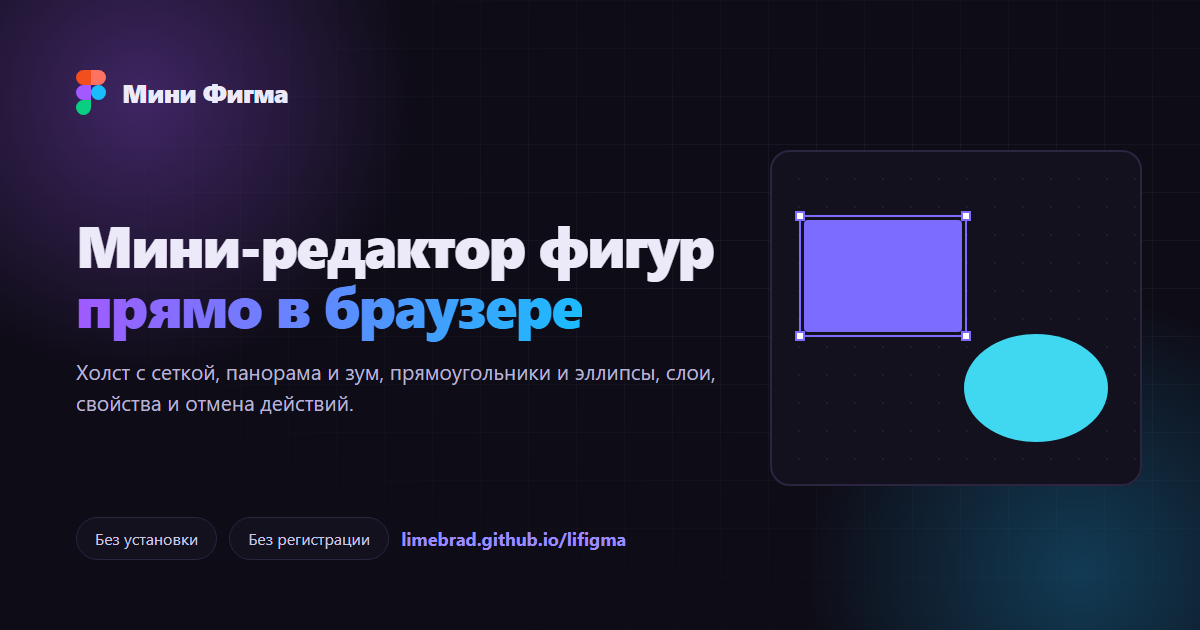
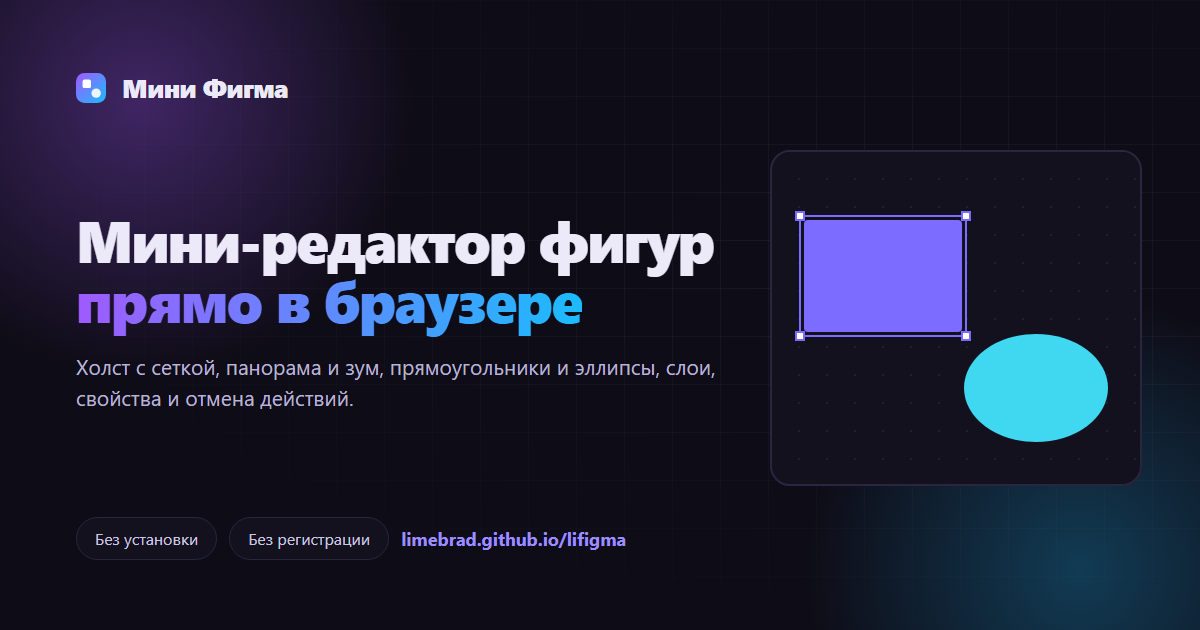
Убран официальный логотип Figma — собственный знак проекта
- Новый знак «Мини Фигма»: градиентный квадрат с прямоугольником и кругом
  (src/components/ui/Logo.tsx вместо FigmaLogo.tsx).
- Знак обновлён в шапке, футере, макете окна редактора и первом шаге.
- favicon.svg и og-image.png перерисованы под новый знак.

Changed region(s): [[0.0617, 0.3317, 0.5858, 0.5429], [0.0617, 0.573, 0.6167, 0.6635], [0.0617, 0.0905, 0.2467, 0.181]]

diff --git a/src/components/ui/Logo.tsx b/src/components/ui/Logo.tsx
@@ -1,0 +1,51 @@
+/**
+ * src/components/ui/Logo.tsx — собственный знак проекта «Мини Фигма» и
+ * подпись рядом с ним. Знак — это градиентный квадрат с двумя фигурами,
+ * которые редактор умеет рисовать (прямоугольник и круг). Официальный
+ * логотип Figma здесь не используется.
+ */
+import { useId } from 'react'
+
+type LogoMarkProps = {
+  className?: string
+}
+
+export function LogoMark({ className = 'h-8 w-auto' }: LogoMarkProps) {
+  // Уникальный id градиента: знак встречается на странице несколько раз.
+  const gradientId = useId()
+
+  return (
+    <svg
+      viewBox="0 0 32 32"
+      className={className}
+      role="img"
+      aria-label="Мини Фигма"
+      focusable="false"
+    >
+      <defs>
+        <linearGradient id={gradientId} x1="0" y1="0" x2="32" y2="32" gradientUnits="userSpaceOnUse">
+          <stop stopColor="#a259ff" />
+          <stop offset="1" stopColor="#1abcfe" />
+        </linearGradient>
+      </defs>
+      <rect width="32" height="32" rx="9" fill={`url(#${gradientId})`} />
+      <rect x="7" y="7" width="9" height="9" rx="2" fill="#ffffff" />
+      <circle cx="21.5" cy="21.5" r="5" fill="#ffffff" fillOpacity="0.9" />
+    </svg>
+  )
+}
+
+type LogoProps = {
+  className?: string
+}
+
+export function Logo({ className = '' }: LogoProps) {
+  return (
+    <span className={`inline-flex items-center gap-2.5 ${className}`}>
+      <LogoMark className="h-7 w-auto" />
+      <span className="text-[17px] font-extrabold tracking-tight text-ink">
+        Мини Фигма
+      </span>
+    </span>
+  )
+}

diff --git a/src/components/visuals/EditorWindow.tsx b/src/components/visuals/EditorWindow.tsx
@@ -59,6 +59,10 @@ export function EditorWindow({ className = '' }: { className?: string }) {
         <pattern id="editor-grid" width="32" height="32" patternUnits="userSpaceOnUse">
           <circle cx="1" cy="1" r="1" fill="#241f36" />
         </pattern>
+        <linearGradient id="editor-logo-grad" x1="22" y1="12" x2="46" y2="36" gradientUnits="userSpaceOnUse">
+          <stop stopColor="#a259ff" />
+          <stop offset="1" stopColor="#1abcfe" />
+        </linearGradient>
       </defs>
 
       <g clipPath="url(#editor-window)">
@@ -68,13 +72,9 @@ export function EditorWindow({ className = '' }: { className?: string }) {
         <rect x="0" y="0" width="1040" height="48" fill={PANEL} />
         <line x1="0" y1="48" x2="1040" y2="48" stroke={BORDER} strokeWidth="1.5" />
 
-        <g transform="translate(22 10) scale(0.5)">
-          <path fill="#1abcfe" d="M19 28.5a9.5 9.5 0 1 1 19 0 9.5 9.5 0 0 1-19 0Z" />
-          <path fill="#0acf83" d="M0 47.5A9.5 9.5 0 0 1 9.5 38H19v9.5a9.5 9.5 0 1 1-19 0Z" />
-          <path fill="#ff7262" d="M19 0v19h9.5a9.5 9.5 0 1 0 0-19H19Z" />
-          <path fill="#f24e1e" d="M0 9.5A9.5 9.5 0 0 0 9.5 19H19V0H9.5A9.5 9.5 0 0 0 0 9.5Z" />
-          <path fill="#a259ff" d="M0 28.5A9.5 9.5 0 0 1 9.5 19H19v19H9.5A9.5 9.5 0 0 1 0 28.5Z" />
-        </g>
+        <rect x="22" y="12" width="24" height="24" rx="7" fill="url(#editor-logo-grad)" />
+        <rect x="27" y="17" width="6.5" height="6.5" rx="1.6" fill="#ffffff" />
+        <circle cx="38" cy="28" r="3.6" fill="#ffffff" fillOpacity="0.9" />
         <text x="52" y="31" fontSize="15" fontWeight="700" fill={TEXT}>
           Мини Фигма
         </text>

diff --git a/src/components/visuals/StepVisual.tsx b/src/components/visuals/StepVisual.tsx
@@ -19,13 +19,15 @@ function OpenEditor() {
       <rect x="70" y="7" width="120" height="12" rx="6" fill="#efefef" />
 
       {/* Знак проекта */}
-      <g transform="translate(116 44) scale(0.32)">
-        <path fill="#1abcfe" d="M19 28.5a9.5 9.5 0 1 1 19 0 9.5 9.5 0 0 1-19 0Z" />
-        <path fill="#0acf83" d="M0 47.5A9.5 9.5 0 0 1 9.5 38H19v9.5a9.5 9.5 0 1 1-19 0Z" />
-        <path fill="#ff7262" d="M19 0v19h9.5a9.5 9.5 0 1 0 0-19H19Z" />
-        <path fill="#f24e1e" d="M0 9.5A9.5 9.5 0 0 0 9.5 19H19V0H9.5A9.5 9.5 0 0 0 0 9.5Z" />
-        <path fill="#a259ff" d="M0 28.5A9.5 9.5 0 0 1 9.5 19H19v19H9.5A9.5 9.5 0 0 1 0 28.5Z" />
-      </g>
+      <defs>
+        <linearGradient id="step-logo-grad" x1="116" y1="40" x2="144" y2="68" gradientUnits="userSpaceOnUse">
+          <stop stopColor="#a259ff" />
+          <stop offset="1" stopColor="#1abcfe" />
+        </linearGradient>
+      </defs>
+      <rect x="116" y="40" width="28" height="28" rx="8" fill="url(#step-logo-grad)" />
+      <rect x="122" y="46" width="8" height="8" rx="2" fill="#ffffff" />
+      <circle cx="137.5" cy="61.5" r="4.2" fill="#ffffff" fillOpacity="0.9" />
 
       {/* Кнопка запуска */}
       <rect x="48" y="90" width="164" height="42" rx="12" fill="#0d0d0d" />

diff --git a/src/editor/EditorApp.tsx b/src/editor/EditorApp.tsx
@@ -9,7 +9,7 @@ import { Canvas } from '../components/Canvas'
 import { LayersPanel } from '../components/LayersPanel'
 import { PropertiesPanel } from '../components/PropertiesPanel'
 import { Toolbar } from '../components/Toolbar'
-import { FigmaLogoMark } from '../components/ui/FigmaLogo'
+import { LogoMark } from '../components/ui/Logo'
 import { useHotkeys } from '../hooks/useHotkeys'
 import { useShapes } from '../hooks/useShapes'
 
@@ -68,7 +68,7 @@ export function EditorApp() {
           title="Вернуться на главную"
           className="inline-flex items-center gap-2 rounded-lg px-1.5 py-1 text-text-main transition-colors hover:bg-panel-2 focus-visible:outline-none focus-visible:ring-2 focus-visible:ring-accent"
         >
-          <FigmaLogoMark className="h-4 w-auto" />
+          <LogoMark className="h-4 w-auto" />
           <span className="text-sm font-semibold tracking-tight">Мини Фигма</span>
         </a>
 

diff --git a/src/components/landing/SiteFooter.tsx b/src/components/landing/SiteFooter.tsx
@@ -4,7 +4,7 @@
  */
 import { EDITOR_URL, FIGMA_URL, NAV_LINKS } from '../../constants/landing'
 import { Container } from '../ui/Container'
-import { FigmaLogo } from '../ui/FigmaLogo'
+import { Logo } from '../ui/Logo'
 import { Icon } from '../ui/Icon'
 
 export function SiteFooter() {
@@ -13,7 +13,7 @@ export function SiteFooter() {
       <Container className="py-14 sm:py-16">
         <div className="grid gap-10 lg:grid-cols-[1.4fr_1fr_1.1fr]">
           <div>
-            <FigmaLogo />
+            <Logo />
             <p className="mt-4 max-w-sm text-[15px] leading-relaxed text-muted">
               Мини Фигма — учебный мини-редактор фигур в браузере: холст с сеткой, фигуры, слои,
               свойства и отмена действий.

diff --git a/src/components/landing/SiteHeader.tsx b/src/components/landing/SiteHeader.tsx
@@ -5,7 +5,7 @@
 import { useEffect, useState } from 'react'
 import { EDITOR_URL, NAV_LINKS } from '../../constants/landing'
 import { Button } from '../ui/Button'
-import { FigmaLogo } from '../ui/FigmaLogo'
+import { Logo } from '../ui/Logo'
 import { Icon } from '../ui/Icon'
 import { Container } from '../ui/Container'
 
@@ -30,7 +30,7 @@ export function SiteHeader() {
           className="rounded-lg focus-visible:outline-none focus-visible:ring-2 focus-visible:ring-brand-violet focus-visible:ring-offset-2"
           aria-label="Мини Фигма — на главную"
         >
-          <FigmaLogo />
+          <Logo />
         </a>
 
         {/* Навигация для широких экранов */}
